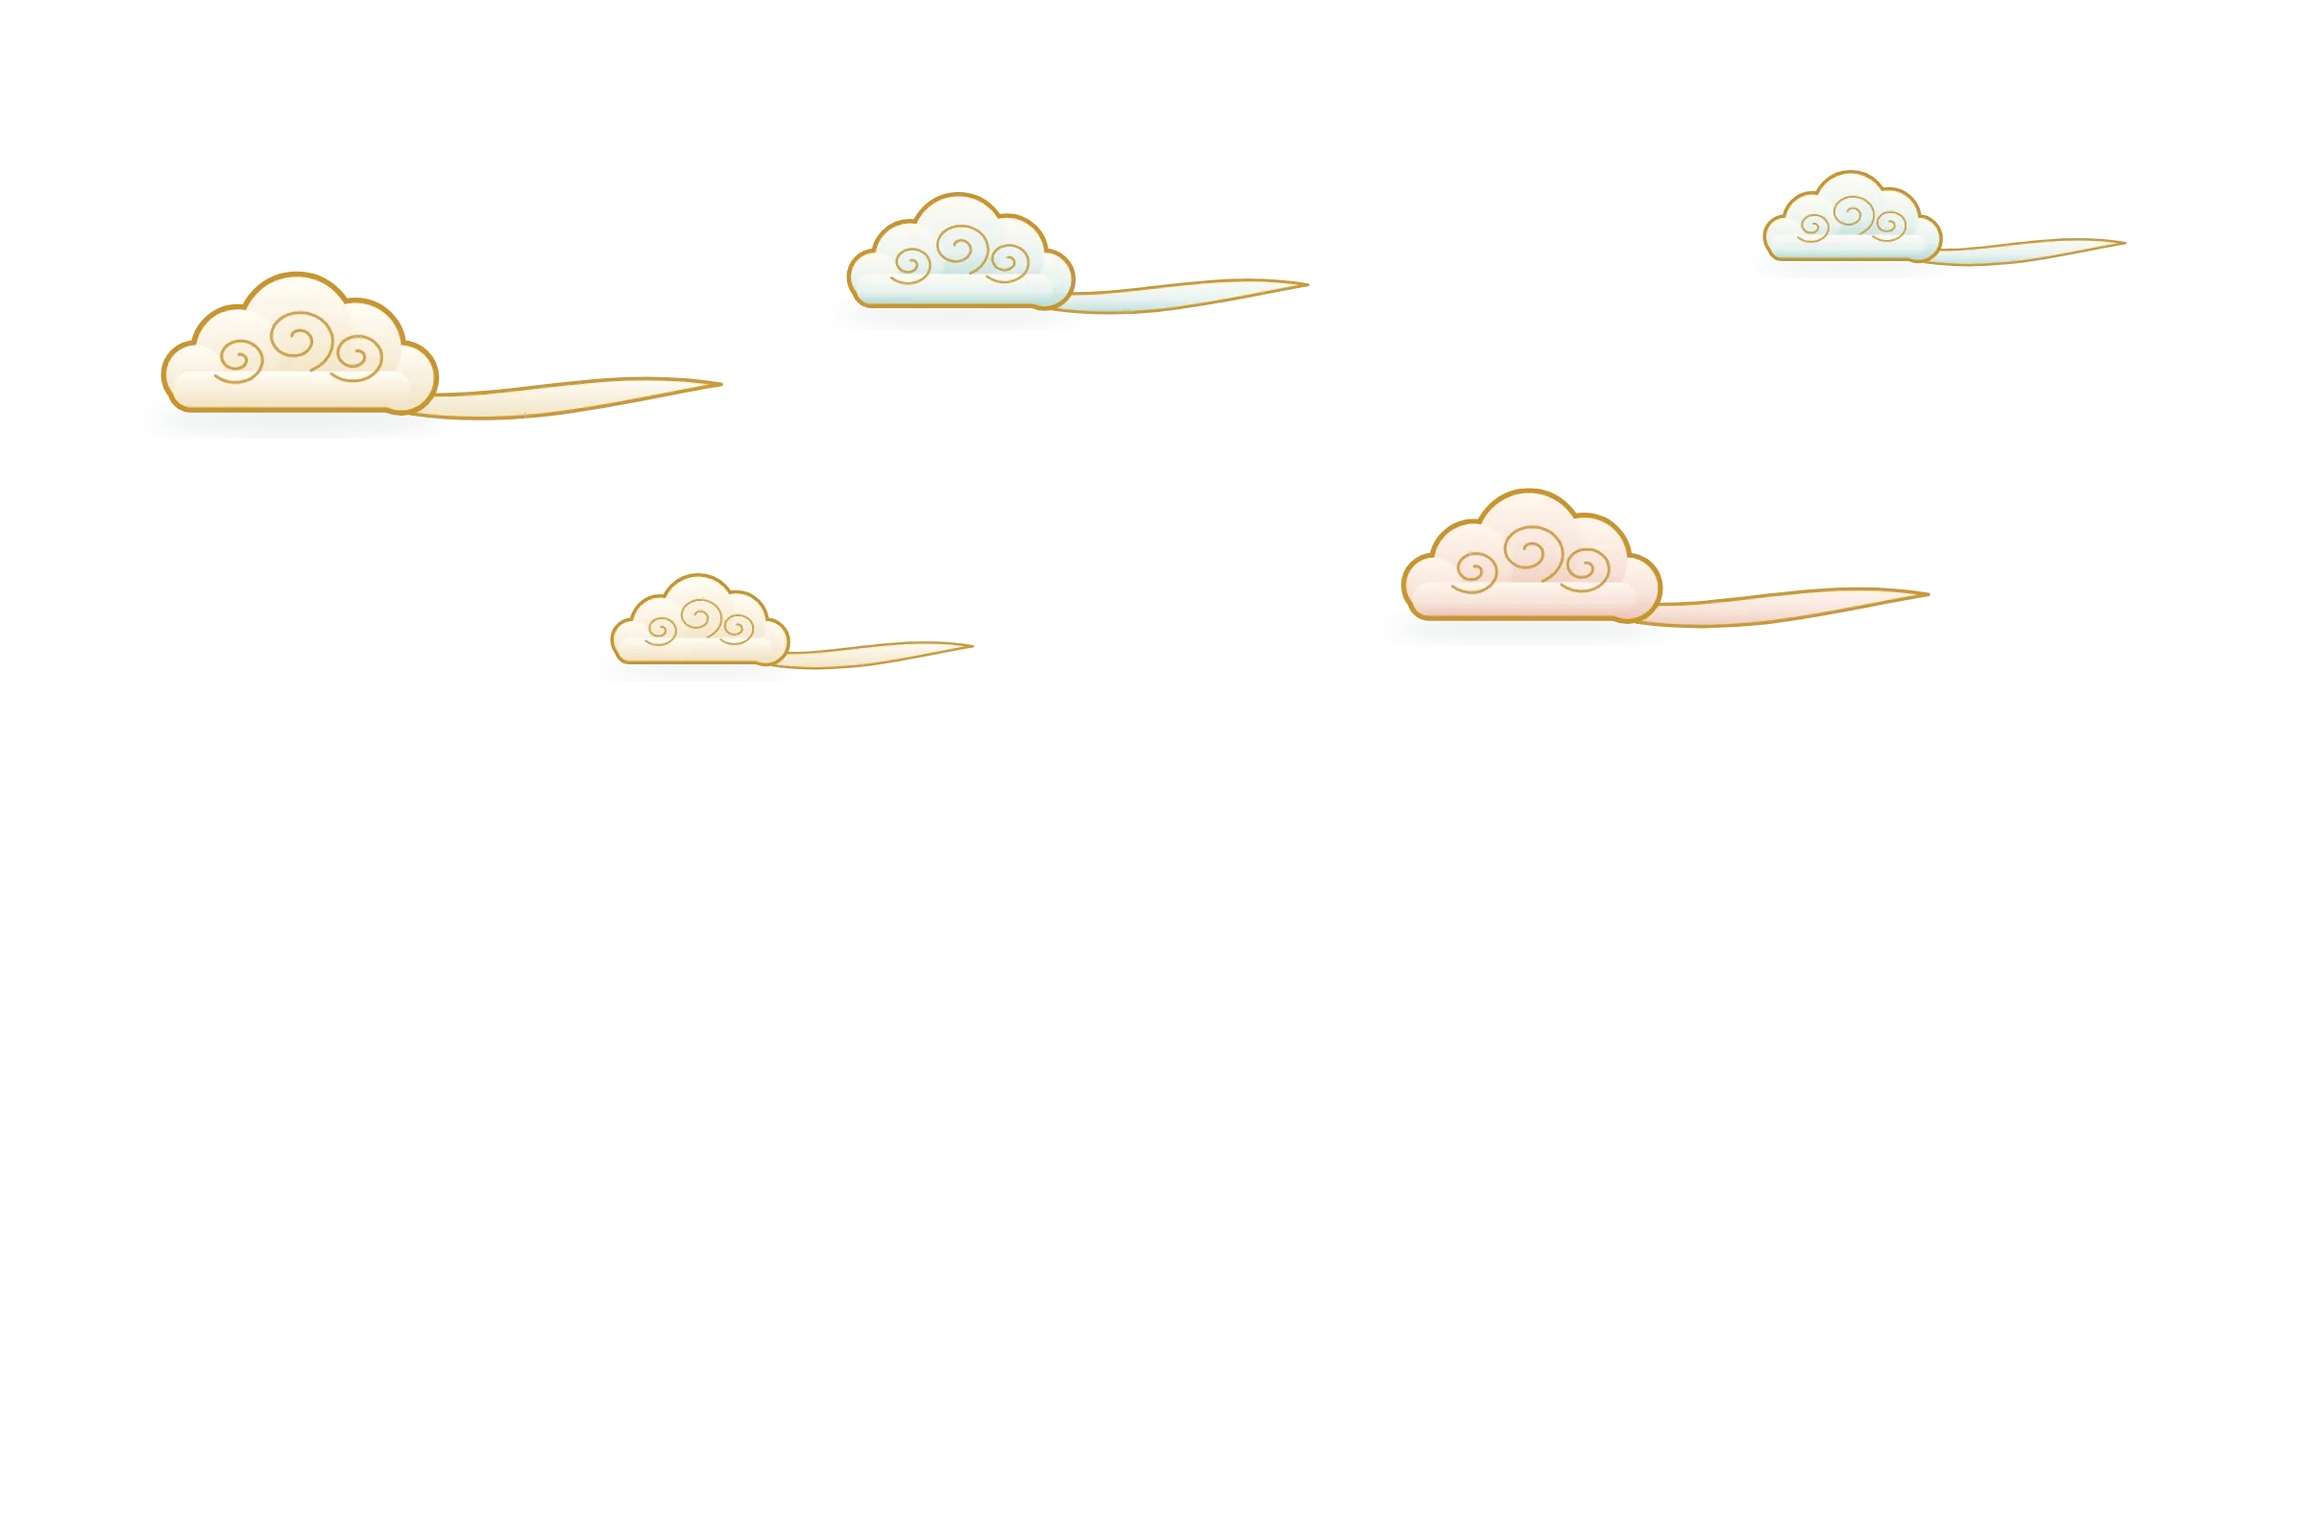
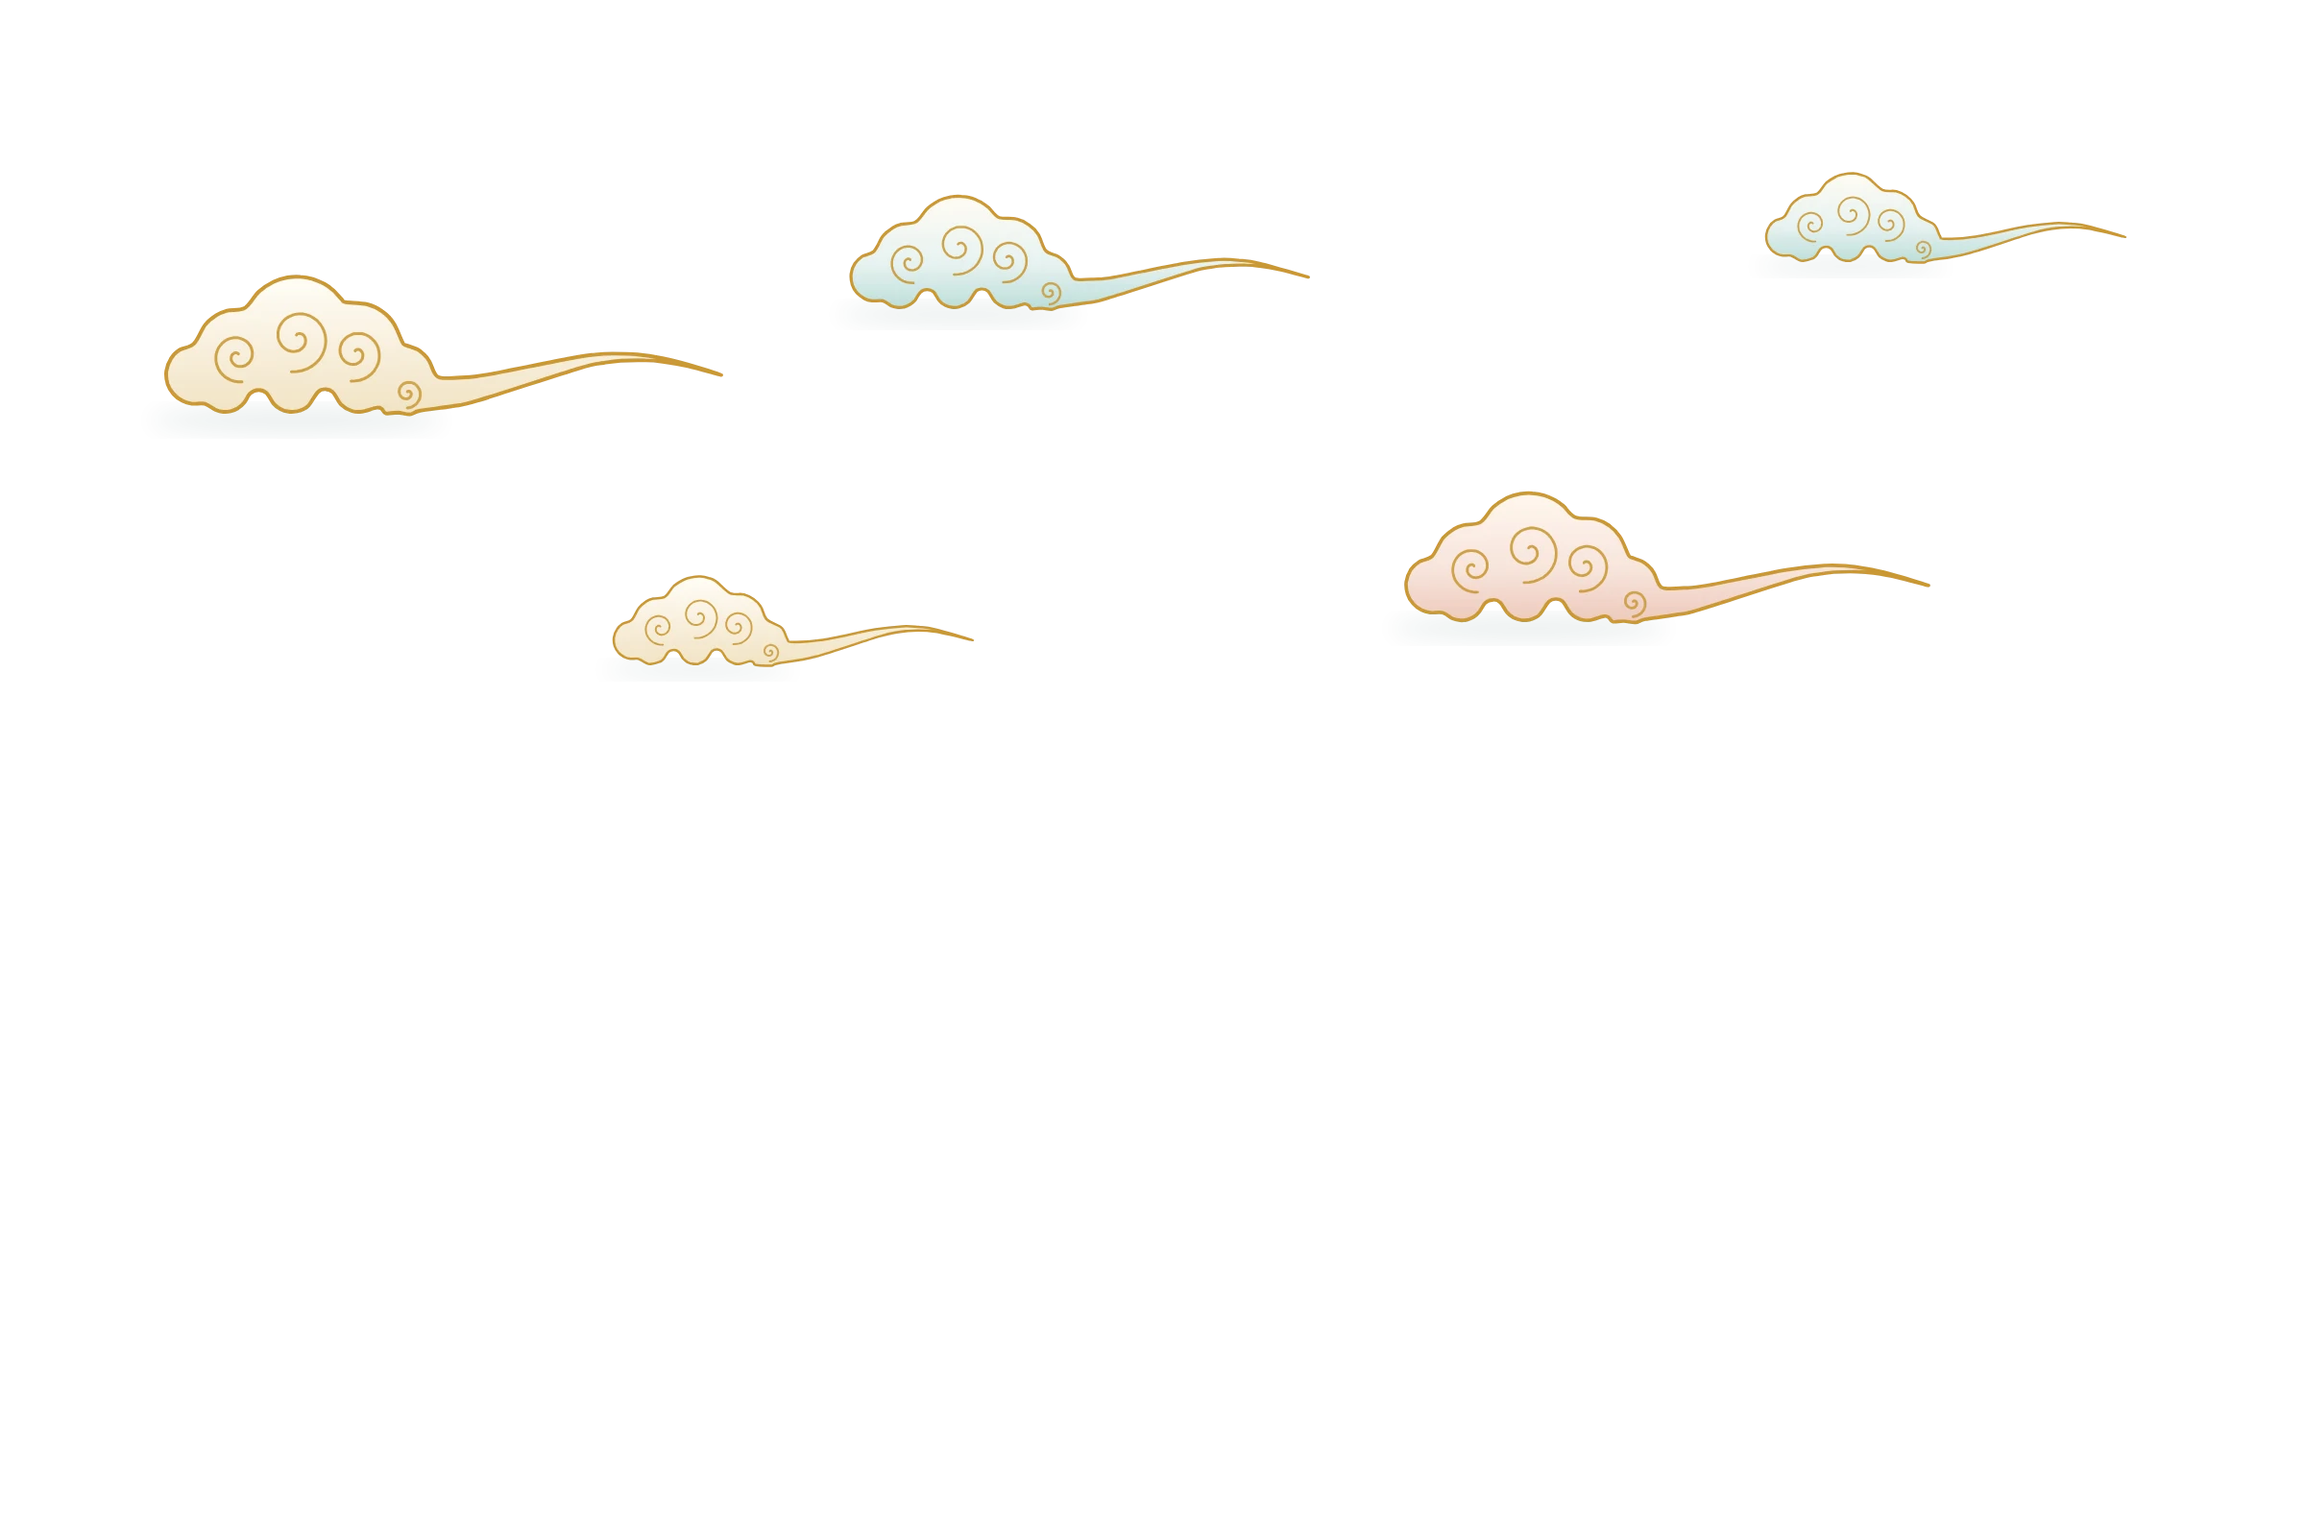
Next always works: a dialog asks to keep exploring or go on when a page isn't finished; ruyi clouds redrawn with tails that grow out of the cloud
Claude-Session: https://claude.ai/code/session_01DgRoBxQmdJkbbGRPo93bhi

diff --git a/js/app.js b/js/app.js
@@ -1,7 +1,7 @@
 // app.js — page router, progress state, top bar and panel shell.
 import CONTENT from '../content/content.js';
 import { PAGES, STORE_KEY } from './config.js';
-import { el, bi, button, iconButton, checklist, toast, clearToasts, closeModal, openVocab, setLang, plain } from './ui.js';
+import { el, bi, button, iconButton, checklist, toast, clearToasts, closeModal, openVocab, setLang, plain, modal } from './ui.js';
 import { icon } from './icons.js';
 import { narrationControl, stopNarration } from './narration.js';
 import { startMusic, stopMusic, installClickSounds } from './sound.js';
@@ -150,7 +150,7 @@ function renderTopbar() {
 
 /* ---------- page context ---------- */
 function makeCtx(id) {
-  let primaryBtn = null, tasksHost = null, completed = !!state.done[id];
+  let primaryBtn = null, tasksHost = null, completed = !!state.done[id], tasks = [];
 
   const ctx = {
     id, state, content: CONTENT[id], CONTENT,
@@ -180,7 +180,9 @@ function makeCtx(id) {
       if (indexOf(id) > 0) nav.append(iconButton('back', plain(CONTENT.common.back), back, 'nav-back'));
       if (opts.primary !== false) {
         const p = opts.primary || { text: CONTENT.common.next, onClick: next };
-        primaryBtn = button(p.text, { variant: 'primary', onClick: p.onClick, disabled: p.alwaysEnabled ? false : !completed });
+        // Next always works: if the page isn't finished yet, a small dialog asks whether to stay or move on
+        primaryBtn = button(p.text, { variant: 'primary', onClick: () => (completed || p.alwaysEnabled ? p.onClick() : askSkip(p.onClick)) });
+        primaryBtn.classList.toggle('is-pending', !completed && !p.alwaysEnabled);
         nav.append(primaryBtn);
       }
       if (nav.childElementCount) actions.append(nav);
@@ -188,13 +190,13 @@ function makeCtx(id) {
       $panel.replaceChildren(inner);
     },
 
-    setTasks(items) { if (tasksHost) tasksHost.replaceChildren(checklist(items)); },
+    setTasks(items) { tasks = items || []; if (tasksHost) tasksHost.replaceChildren(checklist(items)); },
 
     /** Mark this page complete: unlocks the primary button and saves progress. */
     complete() {
       completed = true;
       state.done[id] = true; save();
-      if (primaryBtn) primaryBtn.disabled = false;
+      if (primaryBtn) primaryBtn.classList.remove('is-pending');
     },
     isComplete: () => completed,
 
@@ -206,6 +208,25 @@ function makeCtx(id) {
       return value;
     },
   };
+  // "You haven't finished this page yet": keep going here, or go on anyway
+  function askSkip(goOn) {
+    const c = CONTENT[id] || {}, k = CONTENT.common;
+    const left = tasks.filter((t) => !t.done);
+    let close = null;
+    const stay = button(c.skipStay || k.skipStay, { variant: 'primary', onClick: () => close() });
+    const go = button(k.skipGo, { variant: 'secondary', onClick: () => { close(); goOn(); } });
+    close = modal({
+      title: c.skipTitle || k.skipTitle,
+      body: [
+        left.length ? el('div', { class: 'skip-left' }, el('div', { class: 'skip-left-h' }, bi(k.skipLeft, { layout: 'inline' })),
+          el('ul', {}, left.map((t) => el('li', {}, bi(t.text, { layout: 'inline' }))))) : null,
+        el('p', { class: 'skip-body' }, bi(c.skipBody || k.skipBody)),
+      ].filter(Boolean),
+      actions: [go, stay],
+    });
+    document.querySelector('#modal-layer .modal')?.classList.add('skip-dialog');
+    stay.focus();
+  }
   return ctx;
 }
 

diff --git a/content/content.js b/content/content.js
@@ -36,6 +36,26 @@ const CONTENT = {
       "en": "Close",
       "zh": "關閉"
     },
+    "skipTitle": {
+      "en": "You haven't finished this page yet",
+      "zh": "這一頁還沒完成"
+    },
+    "skipLeft": {
+      "en": "Still to do:",
+      "zh": "還沒完成："
+    },
+    "skipBody": {
+      "en": "You can keep exploring, or go on to the next page and come back later.",
+      "zh": "你可以繼續探索，或先前往下一頁，之後再回來。"
+    },
+    "skipStay": {
+      "en": "Keep Exploring",
+      "zh": "繼續探索"
+    },
+    "skipGo": {
+      "en": "Go to Next Page",
+      "zh": "前往下一頁"
+    },
     "language": {
       "en": "Language",
       "zh": "語言"
@@ -283,6 +303,18 @@ const CONTENT = {
     "task": {
       "en": "Scan the culture card",
       "zh": "掃描文化卡"
+    },
+    "skipTitle": {
+      "en": "You haven't scanned the card yet",
+      "zh": "你還沒有掃描文化卡"
+    },
+    "skipBody": {
+      "en": "Scan the culture card to see the neighborhood rise in AR, or go on to the next page and come back later.",
+      "zh": "掃描文化卡，就能看到街坊在 AR 中出現；也可以先前往下一頁，之後再回來。"
+    },
+    "skipStay": {
+      "en": "Continue Scanning",
+      "zh": "繼續掃描"
     },
     "hintSlow": {
       "en": "Hold the card flat, in good light, 20–30 cm from the camera.",

diff --git a/css/components.css b/css/components.css
@@ -378,3 +378,16 @@ button.chip:hover { background: var(--teal-50); }
   .arv-note { top: 62px; font-size: 12px; }
 }
 @media (prefers-reduced-motion: reduce) { .arv-spin { animation-duration: 3s; } .arv-cam { transition: none; } }
+
+/* "You haven't finished this page yet": stay, or go on anyway (app.js askSkip) */
+.modal.skip-dialog { width: min(520px, 100%); }
+.skip-left { padding: 10px 14px; border-radius: var(--radius-md); background: rgba(240, 207, 122, .18); box-shadow: inset 0 0 0 1px rgba(201, 149, 46, .45); }
+.skip-left-h { font-weight: 700; font-size: 14px; color: var(--wood-600); margin-bottom: 4px; }
+.skip-left ul { margin: 0; padding-left: 20px; font-size: 15px; line-height: 1.45; }
+.skip-left li::marker { color: var(--gold-500); }
+.skip-body { font-size: 15px; line-height: 1.45; color: var(--wood-900); }
+.skip-dialog .btn-row { justify-content: flex-end; flex-wrap: wrap; }
+@media (max-height: 500px) {
+  .skip-left { padding: 6px 10px; }
+  .skip-left ul, .skip-body { font-size: 13px; }
+}

diff --git a/assets/source-art/ruyi_clouds.py b/assets/source-art/ruyi_clouds.py
@@ -1,0 +1,95 @@
+# Usage: python3 ruyi_clouds.py <old clouds svg (git history)> <new svg>
+# Redraw the auspicious (ruyi) clouds: same places, sizes and colours as before, but each cloud is one
+# flowing shape: scalloped lobes that curl, and a tail that grows out of the body and tapers away.
+import sys, re, math
+import xml.etree.ElementTree as ET
+from shapely.geometry import Point, Polygon
+from shapely.ops import unary_union
+NS = '{http://www.w3.org/2000/svg}'
+ET.register_namespace('', 'http://www.w3.org/2000/svg')
+
+def spiral(cx, cy, r, turns=1.6, start=0.0, cw=True, n=60):
+    pts = []
+    for i in range(n + 1):
+        t = i / n
+        a = start + (1 if cw else -1) * t * turns * 2 * math.pi
+        rr = r * (1 - t * 0.92)
+        pts.append((cx + rr * math.cos(a), cy + rr * math.sin(a)))
+    return pts
+
+def d_of(pts, close=False):
+    s = 'M' + ' L'.join(f'{x:.1f} {y:.1f}' for x, y in pts)
+    return s + (' Z' if close else '')
+
+def smooth_d(poly):
+    # Catmull-Rom → cubic Bézier through the outline points, for a soft brush-like edge
+    p = list(poly.exterior.coords)[:-1]
+    n = len(p); out = f'M{p[0][0]:.1f} {p[0][1]:.1f}'
+    for i in range(n):
+        p0, p1, p2, p3 = p[(i - 1) % n], p[i], p[(i + 1) % n], p[(i + 2) % n]
+        c1 = (p1[0] + (p2[0] - p0[0]) / 6, p1[1] + (p2[1] - p0[1]) / 6)
+        c2 = (p2[0] - (p3[0] - p1[0]) / 6, p2[1] - (p3[1] - p1[1]) / 6)
+        out += f' C{c1[0]:.1f} {c1[1]:.1f} {c2[0]:.1f} {c2[1]:.1f} {p2[0]:.1f} {p2[1]:.1f}'
+    return out + ' Z'
+
+def tail_poly(x0, y0, x1, y1, w0, lift, n=40):
+    # a ribbon from (x0,y0) to (x1,y1): gentle S-curve, thick at the root, sharp at the tip, tip flicks up
+    top, bot = [], []
+    for i in range(n + 1):
+        t = i / n
+        x = x0 + (x1 - x0) * t
+        y = y0 + (y1 - y0) * t - lift * math.sin(t * math.pi) * 0.5 + lift * 0.35 * math.sin(t * 2 * math.pi)
+        w = w0 * (1 - t) ** 1.25 * (0.75 + 0.25 * math.cos(t * math.pi / 2))
+        top.append((x, y - w * 0.55)); bot.append((x, y + w * 0.45))
+    return Polygon(top + bot[::-1]).buffer(0)
+
+def redraw(src, dst):
+    tree = ET.parse(src); root = tree.getroot()
+    for g in root.findall(NS + 'g'):
+        circles = [(float(c.get('cx')), float(c.get('cy')), float(c.get('r'))) for c in g.findall(NS + 'circle')][5:]   # the 5 fill circles
+        rect = g.find(NS + 'rect'); rx0, ry0, rw, rh = (float(rect.get(k)) for k in ('x', 'y', 'width', 'height'))
+        fill = g.findall(NS + 'circle')[5].get('fill')
+        tail = g.findall(NS + 'path')[0]
+        tail_xs = [float(v) for v in re.findall(r'(-?\d+\.?\d*) -?\d+\.?\d*', tail.get('d'))]
+        tip_x = max(tail_xs)
+        shadow = g.find(NS + 'ellipse')
+        stroke_w = float(tail.get('stroke-width'))
+        H = rh                                     # base height sets the scale
+        base_y = ry0 + rh                          # bottom of the old body
+        left, right = rx0, rx0 + rw
+        # body: the old top lobes, plus soft scallops underneath instead of a flat ruler-straight base
+        parts = [Point(cx, cy).buffer(r, 48) for cx, cy, r in circles]
+        k = 3
+        for i in range(k):
+            t = (i + 0.5) / k
+            parts.append(Point(left + rw * (0.08 + 0.84 * t), base_y - H * 0.55).buffer(H * 0.68, 48))
+        # a curl lobe on the tail side, where the tail is born
+        lx, ly, lr = circles[0]
+        root_x, root_y = right - H * 0.1, base_y - H * 0.35
+        parts.append(Point(root_x, root_y).buffer(H * 0.55, 48))
+        # the tail grows out of that lobe and sweeps away, tapering to a point
+        parts.append(tail_poly(root_x - H * 0.6, root_y + H * 0.05, tip_x, root_y - H * 0.55, H * 1.05, H * 0.9))
+        shape = unary_union(parts).buffer(H * 0.32, 32).buffer(-H * 0.32, 32).simplify(0.4)
+        # rebuild the group
+        for ch in list(g):
+            if ch.tag != NS + 'ellipse': g.remove(ch)
+        body = ET.SubElement(g, NS + 'path', {'d': smooth_d(shape), 'fill': fill, 'stroke': '#C9952E', 'stroke-width': f'{stroke_w * 1.05:.2f}', 'stroke-linejoin': 'round', 'opacity': '.96'})
+        sw = f'{stroke_w * 0.8:.2f}'
+        # curls in the big lobes (each one starts at the lobe's lower edge and winds in)
+        for cx, cy, r in sorted(circles, key=lambda c: -c[2])[:3]:
+            cw = cx > (left + right) / 2
+            pts = spiral(cx, cy + r * 0.1, r * 0.62, turns=1.55, start=(math.pi * 0.55 if cw else math.pi * 0.45), cw=not cw)
+            ET.SubElement(g, NS + 'path', {'d': d_of(pts), 'fill': 'none', 'stroke': '#C9952E', 'stroke-width': sw, 'stroke-linecap': 'round', 'opacity': '.85'})
+        # the root curl: a spiral at the tail's root whose line runs out along the tail, tying the two together
+        rc = spiral(root_x, root_y - H * 0.05, H * 0.42, turns=1.5, start=math.pi * 0.5, cw=False)[::-1]
+        line = []
+        for i in range(1, 26):
+            t = i / 26 * 0.5
+            x0, y0, x1, y1 = root_x, root_y + H * 0.37, tip_x, root_y - H * 0.55
+            x = x0 + (x1 - x0) * t
+            y = y0 + (y1 - y0) * t - H * 0.9 * math.sin(t * math.pi) * 0.5 + H * 0.9 * 0.35 * math.sin(t * 2 * math.pi) + H * 0.06 * t
+            line.append((x, y))
+        ET.SubElement(g, NS + 'path', {'d': d_of(rc), 'fill': 'none', 'stroke': '#C9952E', 'stroke-width': sw, 'stroke-linecap': 'round', 'opacity': '.8'})
+    tree.write(dst, encoding='unicode')
+
+redraw(sys.argv[1], sys.argv[2])

diff --git a/TUDIGONG_DESIGN_GUIDE.md b/TUDIGONG_DESIGN_GUIDE.md
@@ -589,6 +589,26 @@ const CONTENT = {
       "en": "Close",
       "zh": "關閉"
     },
+    "skipTitle": {
+      "en": "You haven't finished this page yet",
+      "zh": "這一頁還沒完成"
+    },
+    "skipLeft": {
+      "en": "Still to do:",
+      "zh": "還沒完成："
+    },
+    "skipBody": {
+      "en": "You can keep exploring, or go on to the next page and come back later.",
+      "zh": "你可以繼續探索，或先前往下一頁，之後再回來。"
+    },
+    "skipStay": {
+      "en": "Keep Exploring",
+      "zh": "繼續探索"
+    },
+    "skipGo": {
+      "en": "Go to Next Page",
+      "zh": "前往下一頁"
+    },
     "language": {
       "en": "Language",
       "zh": "語言"
@@ -836,6 +856,18 @@ const CONTENT = {
     "task": {
       "en": "Scan the culture card",
       "zh": "掃描文化卡"
+    },
+    "skipTitle": {
+      "en": "You haven't scanned the card yet",
+      "zh": "你還沒有掃描文化卡"
+    },
+    "skipBody": {
+      "en": "Scan the culture card to see the neighborhood rise in AR, or go on to the next page and come back later.",
+      "zh": "掃描文化卡，就能看到街坊在 AR 中出現；也可以先前往下一頁，之後再回來。"
+    },
+    "skipStay": {
+      "en": "Continue Scanning",
+      "zh": "繼續掃描"
     },
     "hintSlow": {
       "en": "Hold the card flat, in good light, 20–30 cm from the camera.",
